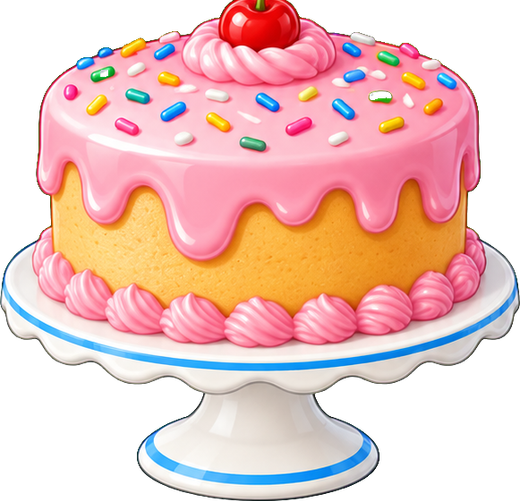
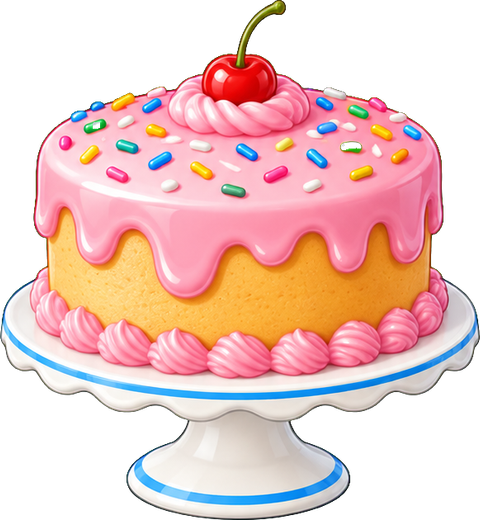
Cooking Measures: bowl moved onto the counter, book on the right with the container next to its cups, bowl fills by picture (art pending), cake keeps its cherry stem

diff --git a/tools/art-import/import-bowl.js b/tools/art-import/import-bowl.js
@@ -1,0 +1,36 @@
+// Cooking Measures: the bowl filling up. cook_bowl_states_sheet.png in ~/Downloads (2 x 2 on flat #00FF00, same bowl in the same place in every cell):
+//   empty (the same bowl as before), a third full of batter, two thirds full, full -> sciencelab/cookbowl.png, cookbowl_1.png, cookbowl_2.png, cookbowl_3.png
+// All four are cut with the SAME rectangle (the union of the four bowls) and scaled the same, so the bowl does not jump when the picture changes.
+//   node tools/art-import/import-bowl.js
+const path = require('path');
+const os = require('os');
+const sharp = require(path.join(__dirname, 'node_modules', 'sharp'));
+const { keyOut } = require('./keyout');
+
+const out = path.join(__dirname, '..', '..', 'EvasLearningWorld', 'Assets', 'Eva', 'Resources', 'Art', 'sciencelab');
+const names = ['cookbowl', 'cookbowl_1', 'cookbowl_2', 'cookbowl_3'];
+const Box = 520;
+
+(async () => {
+  const keyed = await keyOut(path.join(os.homedir(), 'Downloads', 'cook_bowl_states_sheet.png'));
+  const meta = await sharp(keyed).metadata();
+  const cellW = Math.floor(meta.width / 2), cellH = Math.floor(meta.height / 2);
+  const cells = [];
+  let left = Infinity, top = Infinity, right = -1, bottom = -1;
+  for (let i = 0; i < 4; i++) {
+    const cell = await sharp(keyed).extract({ left: (i % 2) * cellW, top: Math.floor(i / 2) * cellH, width: cellW, height: cellH }).png().toBuffer();
+    const { data, info } = await sharp(cell).ensureAlpha().raw().toBuffer({ resolveWithObject: true });
+    for (let y = 0; y < info.height; y++) for (let x = 0; x < info.width; x++) {
+      if (data[(y * info.width + x) * 4 + 3] <= 20) continue;
+      if (x < left) left = x; if (x > right) right = x; if (y < top) top = y; if (y > bottom) bottom = y;
+    }
+    cells.push(cell);
+  }
+  const width = right - left + 1, height = bottom - top + 1;
+  const scale = Math.min(Box / width, Box / height);
+  for (let i = 0; i < 4; i++) {
+    const cut = await sharp(cells[i]).extract({ left, top, width, height }).png().toBuffer();
+    await sharp(cut).resize({ width: Math.round(width * scale), height: Math.round(height * scale) }).png().toFile(path.join(out, names[i] + '.png'));
+    console.log(names[i], Math.round(width * scale) + 'x' + Math.round(height * scale));
+  }
+})();

diff --git a/tools/art-import/import-cook.js b/tools/art-import/import-cook.js
@@ -30,13 +30,16 @@ async function bandOnly(buffer) {
 }
 
 // A sheet cut into equal cells, each trimmed and fitted into a box.
+// The cake's cherry stem reaches up past the middle of the sheet into the bowl's cell.
+const padTop = { cookdish_cake: 0.12 };
+
 async function cells(file, cols, rows, list, box, splitX) {
   const keyed = await keyOut(path.join(os.homedir(), 'Downloads', file));
   const meta = await sharp(keyed).metadata();
   for (const [name, col, row] of list) {
     let left = Math.round(meta.width * col / cols), right = Math.round(meta.width * (col + 1) / cols);
     if (splitX) { left = col === 0 ? 0 : splitX; right = col === 0 ? splitX : meta.width; }
-    const top = Math.round(meta.height * row / rows), bottom = Math.round(meta.height * (row + 1) / rows);
+    const top = Math.max(0, Math.round(meta.height * row / rows) - Math.round(meta.height * (padTop[name] || 0))), bottom = Math.round(meta.height * (row + 1) / rows);
     const cell = await sharp(keyed).extract({ left, top, width: right - left, height: bottom - top }).png().toBuffer();
     const trimmed = await sharp(await bandOnly(cell)).trim({ threshold: 10 }).png().toBuffer();
     await sharp(trimmed).resize({ width: box, height: box, fit: 'inside' }).png().toFile(path.join(out, name + '.png'));

diff --git a/EvasLearningWorld/Assets/Eva/App/Screens/CookingMeasuresScreen.cs b/EvasLearningWorld/Assets/Eva/App/Screens/CookingMeasuresScreen.cs
@@ -50,9 +50,9 @@ namespace EvasLearningWorld.App
         public const float EvaHeight = 420f;
         public static readonly Vector2 CupHome = new Vector2(-20f, -55f);         // the base stands on the counter (picture y -205)
         public static readonly Vector2 PourPoint = new Vector2(110f, 190f);       // where a pitcher hangs over the cup to pour
-        public static readonly Vector2 BowlPoint = new Vector2(-300f, -140f);
-        public static readonly Vector2 BowlTipPoint = new Vector2(-196f, 140f);   // where the cup hangs over the bowl to tip into it
-        public static readonly Vector2 BookPoint = new Vector2(-235f, 245f);
+        public static readonly Vector2 BowlPoint = new Vector2(-300f, -87f);
+        public static readonly Vector2 BowlTipPoint = new Vector2(-196f, 193f);   // where the cup hangs over the bowl to tip into it
+        public static readonly Vector2 BookPoint = new Vector2(430f, 250f);
         public static readonly Vector2 DishPoint = new Vector2(120f, -10f);
         // Where the steps' ingredients stand on the counter, in the order of the recipe's steps.
         public static readonly Vector2[] SourceHomes =
@@ -64,16 +64,9 @@ namespace EvasLearningWorld.App
         public const float BowlReach = 190f;                                       // an egg or sugar this close to the bowl is in it
         public const float TapSize = 240f;
         private const float CupSize = 300f, PitcherSize = 220f, ItemSize = 160f;
-        private const float BookWidth = 400f, BookHeight = 380f, RowHeight = 68f, MiniSize = 56f, DishSmall = 84f;
-        private const float BowlSize = 300f, TokenSize = 84f, DishSize = 380f;
-        // What went into the bowl piles up inside it, bottom row first (offsets from the bowl centre).
-        private static readonly Vector2[] Pile =
-        {
-            new Vector2(-70f, 8f), new Vector2(-24f, 4f), new Vector2(24f, 4f), new Vector2(70f, 8f),
-            new Vector2(-46f, 38f), new Vector2(0f, 34f), new Vector2(46f, 38f),
-            new Vector2(-24f, 66f), new Vector2(24f, 66f), new Vector2(0f, 92f)
-        };
-        private const int MaxTokens = 10, MaxRows = 4, MaxMinis = 3;
+        private const float BookWidth = 400f, BookHeight = 380f, RowHeight = 68f, MiniSize = 62f, DishSmall = 84f;
+        private const float BowlSize = 300f, DishSize = 380f;
+        private const int MaxRows = 4, MaxMinis = 3, BowlStages = 3;
         private const float PourSeconds = 3.2f, TipSeconds = 2.4f;
         private const float PourAngle = 48f, TipAngle = 50f, TiltSpeed = 260f;
         private const float CupBottom = -115f, CupInside = 190f;                  // the liquid runs from CupHome.y + CupBottom up by CupInside
@@ -95,11 +88,12 @@ namespace EvasLearningWorld.App
         private RectTransform _evaAnchor, _items, _bookField, _bowlField, _dishField, _bookPanel, _bowlHolder;
         private Piece _cup;
         private readonly List<Piece> _sources = new List<Piece>();
-        private Image _cupEmpty, _cupHalf, _cupFull, _stream, _bowlGlow, _dish, _dishSmall;
+        private Image _cupEmpty, _cupHalf, _cupFull, _stream, _bowlGlow, _dish, _dishSmall, _bowlImage;
         private readonly List<BookRow> _rows = new List<BookRow>();
-        private readonly List<Image> _tally = new List<Image>();
-        private readonly List<float> _tallyBorn = new List<float>();
-        private int _tallyCount;
+        private int _tallyCount;       // cups, eggs and spoons in the bowl
+        private int _bowlStage;
+        private float _bowlBorn = -10f;
+        private readonly Sprite[] _bowlPictures = new Sprite[BowlStages + 1];
         private GameObject _endPanel, _confetti;
         private PointerHand _hand;
         private Vector3 _evaBaseScale = Vector3.one;
@@ -204,7 +198,7 @@ namespace EvasLearningWorld.App
             _celebrated = new bool[_rounds.Length];
             _rightLineIndex = 0;
             _tallyCount = 0;
-            foreach (var token in _tally) token.gameObject.SetActive(false);
+            ShowBowlStage(0);
             _dishSmall.sprite = EvaUi.Sprite("sciencelab/cookdish_" + _recipe.Dish);
             _dish.sprite = _dishSmall.sprite;
             if (_hand != null) _hand.Hide();
@@ -247,13 +241,16 @@ namespace EvasLearningWorld.App
                 row.CheckBorn = -10f;
                 if (i >= _rounds.Length) continue;
                 var step = _rounds[i].Step;
-                var sprite = step.Kind == CookStepKind.Add
-                    ? EvaUi.Sprite(ItemArt(step.What))
-                    : EvaUi.Sprite("sciencelab/" + CookingMeasure.CupPicture(step.What, step.Level == CupLevel.Half ? CupLevel.Half : CupLevel.Full));
+                // An add step shows the eggs or spoons; a cup step shows what it is (the bag, the pitcher, the jug) and then its cups.
+                var cups = step.Kind == CookStepKind.Cups;
+                var sprite = cups
+                    ? EvaUi.Sprite("sciencelab/" + CookingMeasure.CupPicture(step.What, step.Level == CupLevel.Half ? CupLevel.Half : CupLevel.Full))
+                    : EvaUi.Sprite(ItemArt(step.What));
                 for (var m = 0; m < MaxMinis; m++)
                 {
-                    row.Minis[m].gameObject.SetActive(m < step.Count);
-                    row.Minis[m].sprite = sprite;
+                    var mini = row.Minis[m];
+                    mini.gameObject.SetActive(cups ? m <= step.Count : m < step.Count);
+                    mini.sprite = cups && m == 0 ? EvaUi.Sprite("sciencelab/cookpour_" + step.What) : sprite;
                 }
             }
         }
@@ -379,14 +376,11 @@ namespace EvasLearningWorld.App
         {
             _bowlHolder = Child(_bowlField, "BowlHolder", new Vector2(BowlSize, BowlSize));
             _bowlGlow = SoftGlow.Create(_bowlHolder, BowlSize * 1.5f);
-            ChildImage(_bowlHolder, "Bowl", new Vector2(BowlSize, BowlSize)).sprite = EvaUi.Sprite("sciencelab/cookbowl");
-            for (var i = 0; i < MaxTokens; i++)
-            {
-                var token = ChildImage(_bowlField, "Tally" + i, new Vector2(TokenSize, TokenSize));
-                token.gameObject.SetActive(false);
-                _tally.Add(token);
-                _tallyBorn.Add(0f);
-            }
+            _bowlImage = ChildImage(_bowlHolder, "Bowl", new Vector2(BowlSize, BowlSize));
+            // The bowl pictures fill up with batter: cookbowl (empty), cookbowl_1 .. cookbowl_3 (full). A missing one keeps the picture before it.
+            _bowlPictures[0] = EvaUi.Sprite("sciencelab/cookbowl");
+            for (var i = 1; i <= BowlStages; i++) _bowlPictures[i] = Resources.Load<Sprite>("Art/sciencelab/cookbowl_" + i);
+            _bowlImage.sprite = _bowlPictures[0];
         }
 
         private void BuildCup()
@@ -580,27 +574,29 @@ namespace EvasLearningWorld.App
             if (round.NeedsHint) StartHint();
         }
 
-        // A tiny picture of what went into the bowl joins the pile inside it and pops in.
+        // Something went into the bowl: it fills up one more step (the bowl picture changes and gives a little bounce).
         private void AddToTally(string art)
         {
-            if (_tallyCount >= _tally.Count) return;
-            var token = _tally[_tallyCount];
-            token.sprite = EvaUi.Sprite(art);
-            token.gameObject.SetActive(true);
-            _tallyBorn[_tallyCount] = _time;
-            token.rectTransform.localScale = Vector3.zero;
             _tallyCount++;
+            var total = 0;
+            foreach (var round in _rounds) total += round.Count;
+            ShowBowlStage(_tallyCount >= total ? BowlStages : Mathf.Min(BowlStages - 1, 1 + (int)(2f * _tallyCount / total)));
         }
 
-        private void UpdateTally()
+        private void ShowBowlStage(int stage)
         {
-            for (var i = 0; i < _tallyCount; i++)
-            {
-                var token = _tally[i];
-                token.rectTransform.localScale = Vector3.one * PopScale(_time - _tallyBorn[i]);
-                token.rectTransform.anchoredPosition = Place(BowlPoint + Pile[i]);
-            }
+            if (stage != _bowlStage) _bowlBorn = _time;
+            _bowlStage = stage;
+            var picture = _bowlPictures[0];
+            for (var i = 1; i <= stage; i++) if (_bowlPictures[i] != null) picture = _bowlPictures[i];
+            _bowlImage.sprite = picture;
+        }
+
+        private void UpdateBowl()
+        {
             _bowlHolder.anchoredPosition = Place(BowlPoint);
+            var age = _time - _bowlBorn;
+            _bowlHolder.localScale = Vector3.one * (age < 0.3f ? 1f + 0.08f * Mathf.Sin(age / 0.3f * Mathf.PI) : 1f);
         }
 
         // Pops past full size, then settles.
@@ -627,7 +623,7 @@ namespace EvasLearningWorld.App
             if (_round == null || _sessionEnded) return;
             _time += seconds;
             UpdatePour(seconds);
-            UpdateTally();
+            UpdateBowl();
             UpdateBook();
             UpdateHome(_cup, seconds);
             foreach (var source in _sources) UpdateHome(source, seconds);
@@ -878,7 +874,7 @@ namespace EvasLearningWorld.App
         // A step whose last cup, egg or spoon is in the bowl gets ticked off (one at a time).
         private void CheckRoundEnd()
         {
-            if (_roundOver || _announcing) return;
+            if (_roundOver) return;
             for (var i = 0; i < _rounds.Length; i++)
             {
                 if (!_rounds[i].Done || _celebrated[i]) continue;
@@ -897,6 +893,7 @@ namespace EvasLearningWorld.App
             row.Ring.gameObject.SetActive(false);
             row.Check.gameObject.SetActive(true);
             row.CheckBorn = _time;
+            while (_announcing) yield return null; // let the line about the last egg or cup finish
             yield return new WaitForSeconds(0.6f); // a moment to look at the bowl
             _confetti.SetActive(true); // the fanfare and a burst of confetti
             Haptics.Win();

diff --git a/art/eva/sciencelab/PROMPTS.md b/art/eva/sciencelab/PROMPTS.md
@@ -622,3 +622,7 @@ Import (to build): tools/art-import/import-cook.js -> sciencelab/cookbowl.png, c
 
 Cooking Measures update 2026-10-12 (b): a recipe per session ("Let's make pancakes!": milk half cup, flour full cup, 2 eggs, 1 spoon of sugar). Needs `cook_extras_sheet.png` (attach cook_items_sheet.png; 2 in one row on #00FF00: one whole egg standing upright / one wooden spoon heaped with white sugar).
 Imported by tools/art-import/import-cook.js -> sciencelab/cookitem_egg.png, cookitem_sugar.png (also used as the small tally pictures in front of the bowl); bowl and dishes from cook_bowl_dishes_sheet.png -> cookbowl.png, cookdish_<pancakes|cake|cupcakes>.png.
+
+Cooking Measures update 2026-10-12 (c): the bowl fills up (replaces the tiny pictures piled in the bowl). `cook_bowl_states_sheet.png` (attach cook_bowl_dishes_sheet.png; 2 x 2 on #00FF00, the SAME bowl with the wooden spoon, same size, angle and place in every cell, only the contents change):
+empty (identical to the attached bowl) / a third full of thick creamy pale-yellow batter / two thirds full / full to just under the rim, smooth and glossy, the spoon still resting in it.
+Import: node tools/art-import/import-bowl.js -> sciencelab/cookbowl.png (empty, replaces the old one), cookbowl_1.png, cookbowl_2.png, cookbowl_3.png (one crop for all four so the bowl does not jump). The game shows the stage by how much of the recipe is in the bowl.
